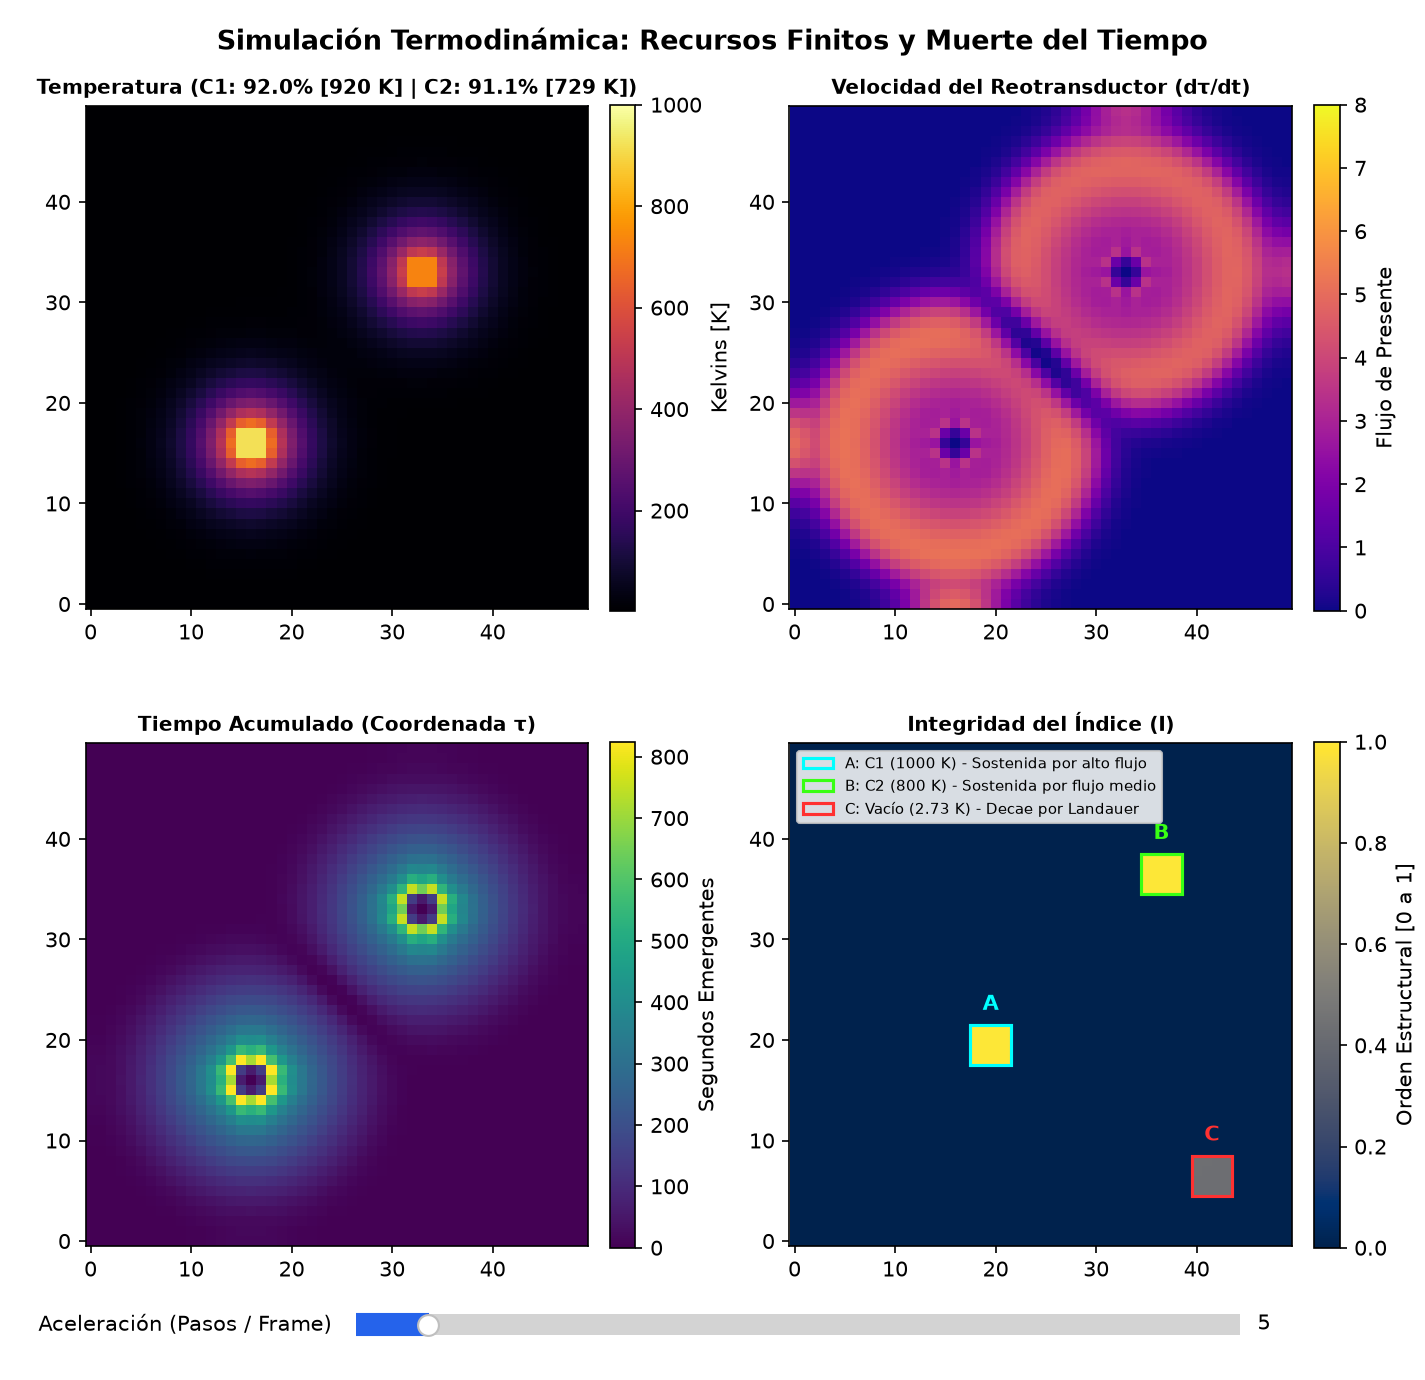
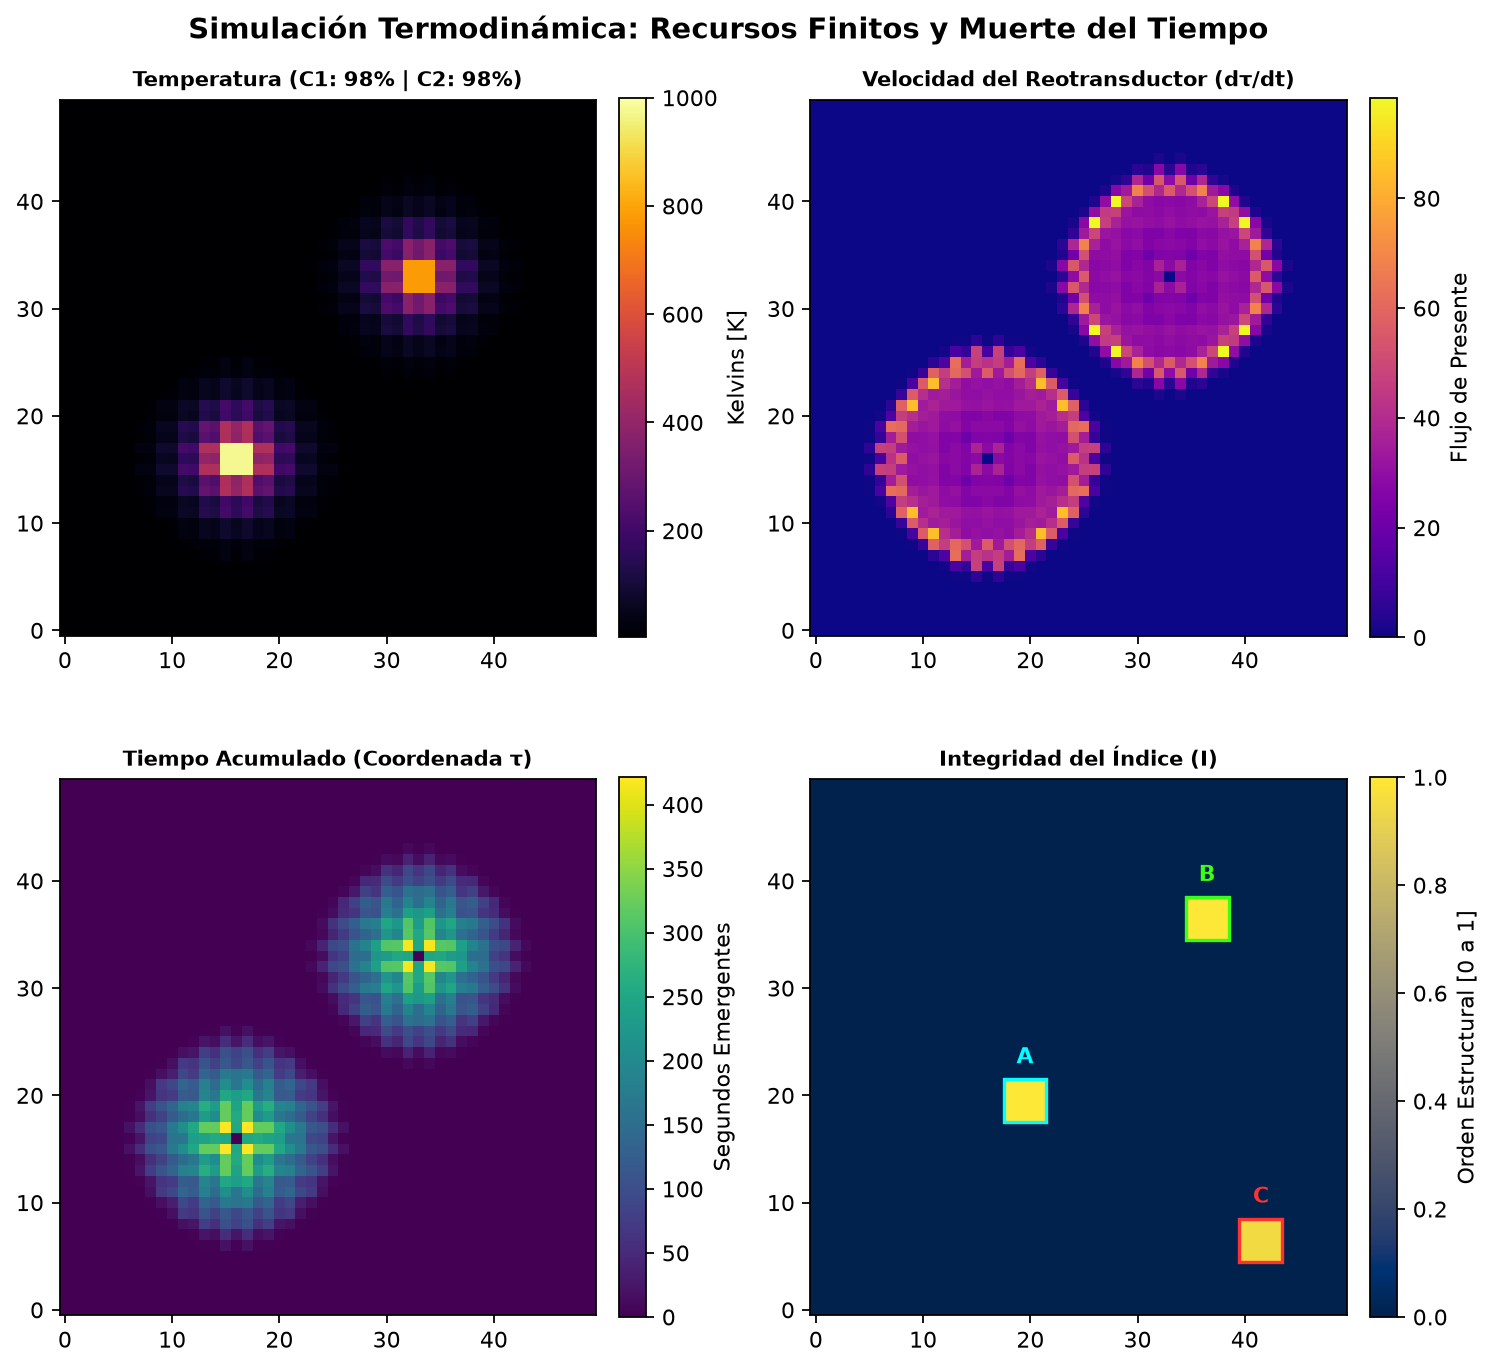
docs: clarify 2D proof-of-concept vs 3D physical framework architecture and update visual assets

diff --git a/simulador_reotransductor.py b/simulador_reotransductor.py
@@ -4,14 +4,18 @@ from matplotlib.animation import FuncAnimation
 from matplotlib.widgets import Slider
 import matplotlib.patches as mpatches
 
+from server.physics_units import CosmologicalUnits
+
 # =====================================================================
-# CONFIGURACIÓN DE PARÁMETROS FÍSICOS
+# CONFIGURACIÓN DE PARÁMETROS FÍSICOS Y UNIDADES FUNDAMENTALES
 # =====================================================================
-GRID_SIZE = 50          # Resolución espacial
-DT = 0.1                # Intervalo temporal estable (CFL)
-DIFFUSION_COEFF = 0.5   # Conductividad térmica (k)
-KAPPA = 50.0            # Constante disipativa de Onsager
-LANDAUER_DECAY = 0.02   # Tasa de decaimiento entrópico de los Índices
+GRID_SIZE = 50          # Resolución espacial de la cuadrícula
+units = CosmologicalUnits(box_size_mpc=100.0, grid_resolution=GRID_SIZE)
+
+DT = units.DT                          # Intervalo temporal estable (CFL)
+KAPPA = units.get_cosmological_effective_kappa()  # Constante disipativa derivada de Planck-Boltzmann
+DIFFUSION_BASE = units.DIFFUSION_BASE  # Conductividad térmica base a T_CMB = 2.73 K
+LANDAUER_BASE = units.LANDAUER_BASE    # Tasa base de borrado de Landauer (k_B T ln 2)
 
 # Reservas iniciales de combustible térmico (Joules de la caldera)
 FUEL_1_INIT = 35000.0   # Caldera 1 (1000 K)
@@ -36,18 +40,21 @@ tau = np.zeros((GRID_SIZE, GRID_SIZE))
 steps_per_frame = 1
 
 # =====================================================================
-# MOTOR FÍSICO CON RECURSOS FINITOS
+# MOTOR FÍSICO CON RECURSOS FINITOS Y PRIMEROS PRINCIPIOS
 # =====================================================================
 def update_physics(T, I, tau):
     global fuel_1, fuel_2
     
-    # a. Conducción de Fourier (Diferencias finitas en volumen interno)
-    laplacian = np.zeros_like(T)
-    laplacian[1:-1, 1:-1] = (
-        T[:-2, 1:-1] + T[2:, 1:-1] +
-        T[1:-1, :-2] + T[1:-1, 2:] - 4 * T[1:-1, 1:-1]
-    )
-    T_next = T + DIFFUSION_COEFF * laplacian * DT
+    # a. Conductividad térmica dinámica de Spitzer-Braginskii kappa(T) ~ T^(5/2)
+    kappa_field = units.compute_spitzer_conductivity(T, rho=1.0)
+    
+    # Conducción de Fourier no-lineal: div(kappa * grad(T))
+    grad_T_y, grad_T_x = np.gradient(T)
+    J_x = -kappa_field * grad_T_x
+    J_y = -kappa_field * grad_T_y
+    div_J = np.gradient(J_x, axis=1) + np.gradient(J_y, axis=0)
+    
+    T_next = np.clip(T - div_J * DT, 2.73, 2000.0)
     
     # b. Inyección y enfriamiento gradual según combustible (Reservorio Lineal)
     # T_caldera(t) = T_base + (T_max - T_base) * (combustible / combustible_inicial)
@@ -70,27 +77,24 @@ def update_physics(T, I, tau):
     # Fronteras frías fijas (Sumidero cósmico a 2.73 K)
     T_next[0, :] = T_next[-1, :] = T_next[:, 0] = T_next[:, -1] = 2.73
     
-    # c. Gradiente inverso y corriente disipativa
+    # c. Gradiente inverso y corriente disipativa de Onsager
     inv_T = 1.0 / T_next
     grad_inv_T_y, grad_inv_T_x = np.gradient(inv_T)
     
-    grad_T_y, grad_T_x = np.gradient(T_next)
-    J_x = -DIFFUSION_COEFF * grad_T_x
-    J_y = -DIFFUSION_COEFF * grad_T_y
-    
-    # d. Velocidad del Reotransductor (Producción de Entropía)
+    # d. Velocidad del Reotransductor (Producción de Entropía sigma = J * grad(1/T))
     d_tau_dt = KAPPA * np.maximum(0.0, (J_x * grad_inv_T_x + J_y * grad_inv_T_y))
     tau_next = tau + d_tau_dt * DT
     
-    # e. Dinámica de Supervivencia de los Índices
+    # e. Dinámica de Supervivencia de los Índices con Decaimiento de Landauer gamma(T)
     energy_flux = np.sqrt(J_x**2 + J_y**2)
     thermal_noise = 0.001 * T_next
     sustenance = 5.0 * energy_flux
+    landauer_decay_field = units.compute_landauer_decay(T_next)
     
     # Solo las estructuras no extintas (I > 0) evolucionan
     mask = I > 0
     delta_I = np.zeros_like(I)
-    delta_I[mask] = (sustenance[mask] - thermal_noise[mask] - LANDAUER_DECAY) * DT
+    delta_I[mask] = (sustenance[mask] - thermal_noise[mask] - landauer_decay_field[mask]) * DT
     I_next = np.clip(I + delta_I, 0.0, 1.0)
     
     return T_next, I_next, tau_next, d_tau_dt

diff --git a/README.md b/README.md
@@ -9,15 +9,25 @@ An open-source computational physics simulation suite and in-silico laboratory e
 
 ---
 
-## Available Simulations
+## Available Simulations & Architecture Scope
 
-| Simulation | File | Description |
-|---|---|---|
-| **24/7 Cosmological Server & Web Dashboard** | [`run_server.py`](run_server.py) | Autonomous headless multi-core engine with automated checkpointing, multi-eon history recorder, and real-time WebSocket Web Dashboard (Dell PowerEdge R820 / Nginx ready). |
-| **3D Cosmological Model (GPU CUDA)** | [`simulador_cosmologico_3d_gpu.py`](simulador_cosmologico_3d_gpu.py) | Desktop GPU-accelerated 3D simulation with CuPy in-VRAM integration, Planck CMB sky projection, and Matplotlib GUI. |
-| **3D Cosmological Model (CPU NumPy)** | [`simulador_cosmologico_3d.py`](simulador_cosmologico_3d.py) | Desktop 3D simulation with pure NumPy, 3D Poisson gravity, Planck CMB sky projection, and Matplotlib GUI. |
-| **2D Cosmological Model** | [`simulador_cosmologico.py`](simulador_cosmologico.py) | 2D cosmological model with cellular time emergence, Bekenstein entropy saturation, White Hole bounce, and fossil memory. |
-| **Core Thermodynamic Rheotransducer** | [`simulador_reotransductor.py`](simulador_reotransductor.py) | Fundamental non-equilibrium thermodynamic simulation with finite boilers, Landauer negentropy decay, and Onsager dissipation. |
+The repository provides a tiered architecture separating rapid conceptual proof-of-concept demonstration from the full production-grade 3D theoretical cosmology framework:
+
+| Tier | Simulation | File | Description |
+|---|---|---|---|
+| **Production / Research** | **24/7 Cosmological Server & Web Dashboard** | [`run_server.py`](run_server.py) | Autonomous headless multi-core 3D engine with Planck 2018 observational pipeline, Hubble tension predictor, automated checkpointing, and real-time WebSocket dashboard. |
+| **Production / Research** | **3D Cosmological Model (GPU CUDA)** | [`simulador_cosmologico_3d_gpu.py`](simulador_cosmologico_3d_gpu.py) | Full 3D first-principles simulation with CuPy in-VRAM acceleration, Poisson gravity on $\mathbb{T}^3$, Spitzer conductivity, and $S^2$ Mollweide celestial sky. |
+| **Production / Research** | **3D Cosmological Model (CPU NumPy)** | [`simulador_cosmologico_3d.py`](simulador_cosmologico_3d.py) | Full 3D first-principles simulation with pure NumPy, 3D Poisson gravity on $\mathbb{T}^3$, Spitzer conductivity, and $S^2$ Mollweide celestial sky. |
+| **Proof of Concept** | **2D Cosmological Demonstrator** | [`simulador_cosmologico.py`](simulador_cosmologico.py) | Interactive 2D Proof-of-Concept for real-time visual exploration of emergent proper time ($\tau$), Bekenstein saturation, and cyclic white-hole bounces at 60 FPS. |
+| **Proof of Concept** | **Core Thermodynamic Rheotransducer** | [`simulador_reotransductor.py`](simulador_reotransductor.py) | Foundational 2D thermodynamic demonstrator showcasing finite energy boilers, Onsager entropy production, and Landauer informational decay. |
+
+### Architectural Clarification: 2D Proof-of-Concept vs. Full 3D Framework
+
+* **2D Proofs-of-Concept (`simulador_cosmologico.py`, `simulador_reotransductor.py`):**
+  Designed as lightweight, interactive visual demonstrators for desktop exploration. Due to fundamental mathematical differences in two spatial dimensions — specifically, logarithmic Poisson gravity ($\Phi \sim \ln r$ per the Ehrenfest theorem), 1D horizon perimeters ($L \propto M$), and 1D circular boundaries ($S^1$) rather than 2D spherical celestial skies ($S^2$) — the 2D scripts utilize calibrated visual parameters optimized for real-time pedagogical exploration.
+
+* **3D Production & Observational Framework (`simulador_cosmologico_3d.py`, `simulador_cosmologico_3d_gpu.py`, `server/engine.py`):**
+  The formal scientific foundation of the project. Implements exact $1/r^2$ Newtonian-Poisson gravity on a 3-Torus ($\mathbb{T}^3$), relativistic monoatomic sound speed ($c_s^2(T) \le c^2/3$), non-linear Spitzer-Braginskii conductivity ($\kappa_{\text{Spitzer}} \propto T^{5/2}/\rho$), quadratic Bekenstein-Hawking area-entropy scaling ($S_{\text{BH}} \propto M^2$), Holographic Phase-Locking in complex Fourier space ($\theta(\mathbf{k})$), and direct empirical validation against the **ESA Planck 2018 Legacy Archive (PR3/PR4)**.
 
 ---
 
